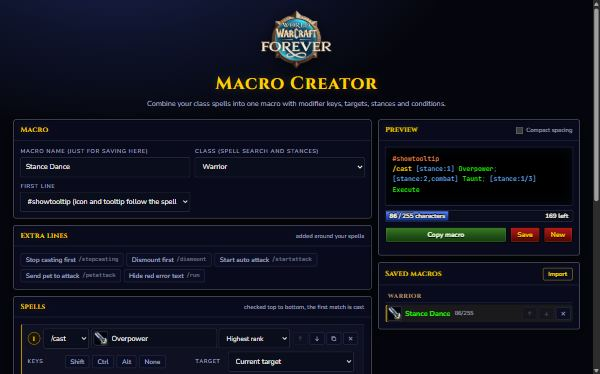
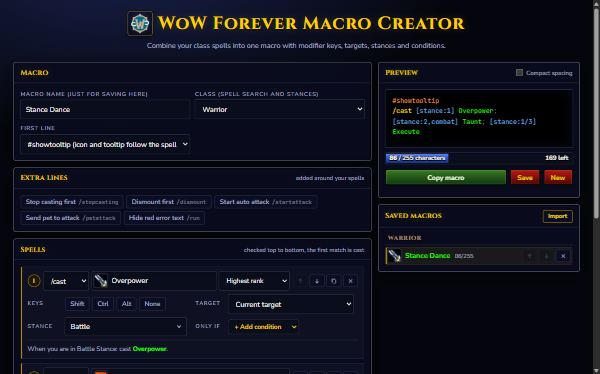
WoW Forever Macro Creator: WoW Forever emblem next to the title
The title now has the WoW Forever emblem in front of it, framed like SkillUp's, and the same emblem is the tab icon.

diff --git a/tools/WoW-Forever-Macro-Creator/WoW-Forever-Macro-Creator.html b/tools/WoW-Forever-Macro-Creator/WoW-Forever-Macro-Creator.html
@@ -79,8 +79,16 @@
     text-shadow: 0 1px 0 #000, 0 0 14px rgba(255, 209, 0, .22);
   }
   header p { margin: 6px 0 0; color: var(--mute); }
-  header .logo { display: block; width: auto; height: 120px; max-width: 80%; object-fit: contain; margin: 0 auto 4px; filter: drop-shadow(0 6px 14px rgba(0,0,0,.6)); }
-  @media (max-width: 560px) { header .logo { height: 96px; } }
+  /* the WoW Forever emblem in front of the title, like SkillUp's */
+  header h1 { display: inline-flex; align-items: center; justify-content: center; gap: .35em; }
+  header h1 .brand { width: 1.35em; height: 1.35em; flex: none; padding: .1em; border-radius: 6px;
+    background: radial-gradient(circle at 50% 40%, #1c2250, #0b0e22 75%); box-shadow: 0 0 0 1px var(--gold-dk), 0 2px 8px rgba(0,0,0,.65); }
+  /* phones: emblem on top, title centred under it */
+  @media (max-width: 560px) {
+    header h1 { flex-direction: column; gap: 10px; line-height: 1.15; }
+    header h1 span { text-wrap: balance; }
+    header h1 .brand { width: 52px; height: 52px; }
+  }
 
   .layout { display: grid; grid-template-columns: minmax(0, 1fr) 420px; gap: 14px; align-items: start; }
   .side { position: sticky; top: 14px; display: grid; gap: 14px; }
@@ -406,8 +414,7 @@
 <body>
 <div class="wrap">
   <header>
-    <img class="logo" src="logo.png" alt="World of Warcraft: Forever" width="295" height="240" />
-    <h1>Macro Creator</h1>
+    <h1><img class="brand" src="icon.png" alt="" width="128" height="128" /><span>WoW Forever Macro Creator</span></h1>
     <p>Combine your class spells into one macro with modifier keys, targets, stances and conditions.</p>
   </header>
 
